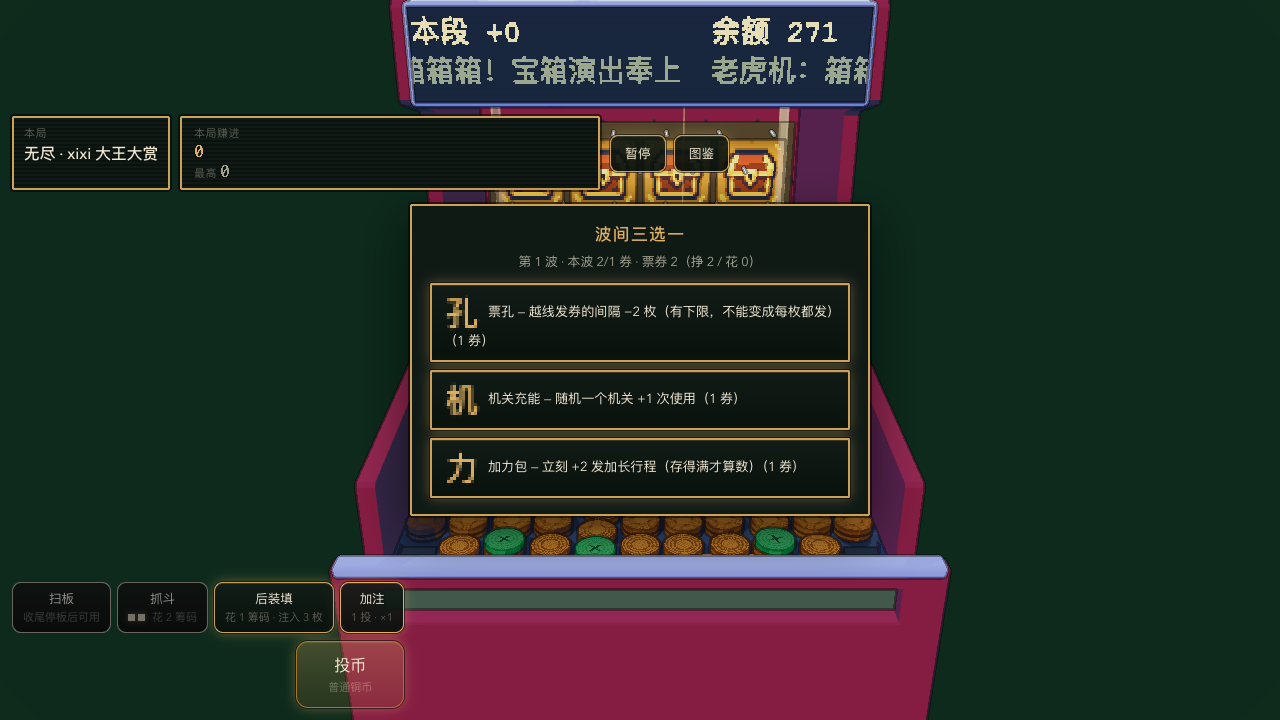
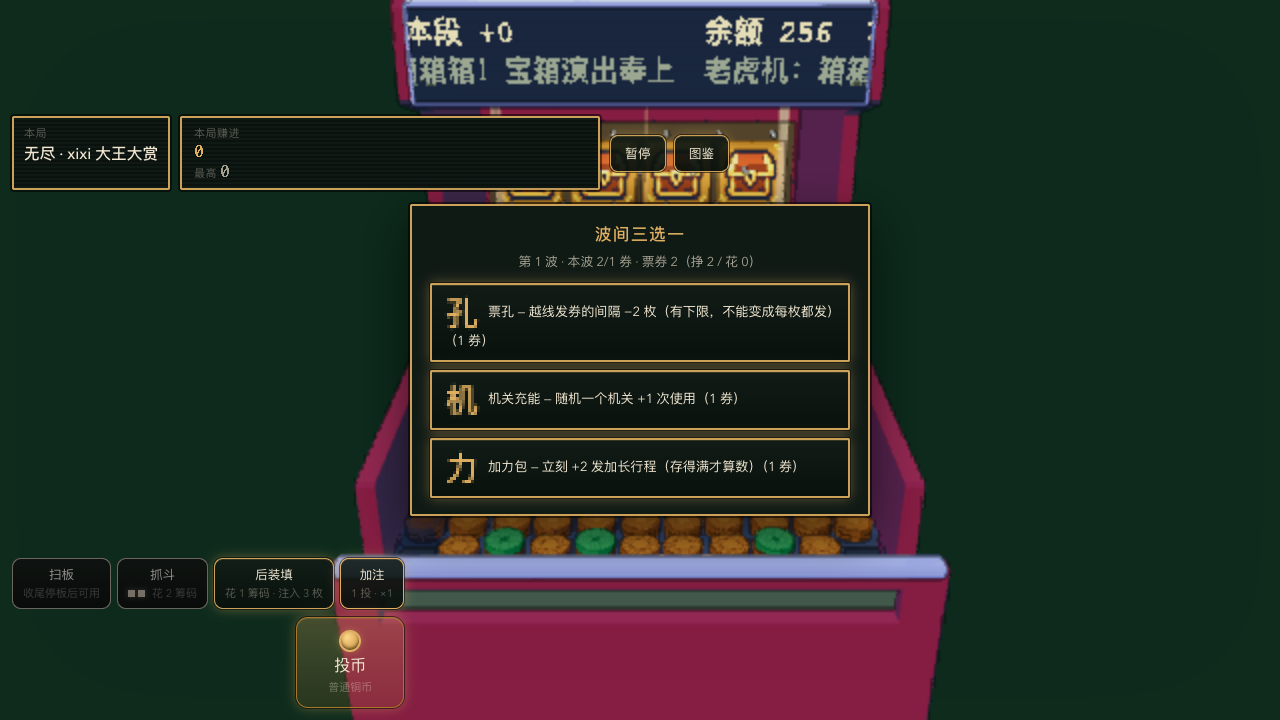
S7 收尾：按钮帽 + 调色板/无玻璃两条门，七条 G- 门逐条变异臂隔离
Stage 3b 的最后一格，顺带把"新判据必须红过一次"这条纪律在 UI 门上补齐。

界面：
- 投币键加一枚**圆形按钮帽**（纯 CSS：偏左上高光 + 下方内阴影 + 外圈双色边，跟机柜黄件同一受光方向）。
  没做成整颗圆：那格里还有"投币 / 普通铜币"两行字，整颗圆会把字挤成弧形，反而更不像机器。
- 13 张 README 截图在最终 CSS 之后重拍（含 390×844）。

判据（两条新门 + 一套臂）：
- G-调色板：计划原句是「HUD 区域颜色数 ≤ 机柜 LUT 槽数」，**实测先否掉它** ——
  只留 HUD 时 exact 6,618 / coarse 126 种，而 LUT 只有 4×4 = 16 槽；差两个数量级的来源是
  按钮面渐变与文字抗锯齿，那是刻意设计不是缺陷 ⇒ "≤ 16 槽"一装就是永久红，而永久红的门等于没有门。
  落地成「HUD 里声明出来的颜色 15 种、上限 24（1.6× 余量）」的回归栅栏：它抓"有人再加一族颜色/底色"，
  不假装能抓"是不是像素语言"。
- G-无玻璃：玻璃那一半搬给一条**直接可测**的门（可见节点里 computed backdropFilter 含 blur( 的数量 = 0）。
  与 G-调色板 互不包含：一个抓多一族颜色，一个抓多一层玻璃。
- UI_NEG_ARM=<臂>：七条 G- 门各配一条运行时变异臂（一个 <style> 或一个探针节点，不碰 src 也不碰存档）。
  10-07 实测逐条**只**红自己那条；color 臂 15 → 27 → 15 可复原。
- XIXI_FAST 的边界注释与打印跟上实际门数（段首现在是 1a 四条 + 1b/1c + S2 四条 + 这两条）。

验证：camera 23/23、xixi FAST 36/36、visual 28 passed / 2 skipped（那两条是 webkit 取回不确定性的既有定性结案）、
bot-playtest + save-migration 32 passed、tsc + vite build 干净。撤臂复跑两模式各 0 红。

Changed region(s): [[0.0, 0.7028, 0.75, 0.9167], [0.3125, 0.0, 0.6875, 0.275], [0.4375, 0.0, 0.4688, 0.0306]]

diff --git a/src/styles.css b/src/styles.css
@@ -878,6 +878,28 @@ body {
   background: linear-gradient(180deg, rgb(var(--brass-rgb) / 0.26), rgba(169, 118, 44, 0.16));
 }
 
+/* Stage 3b · 按钮硬件化：投币键上加一枚**圆形按钮帽**（纯 CSS 画的，不需要素材）。
+   读感是"一颗按下去会凹的机器键"，而不是又一块玻璃圆角条：
+   高光偏左上、内阴影压在下方、外圈双色边 —— 与机柜的黄铜件同一套受光方向。
+   ⚠ 没有把它做成整颗按钮的轮廓：那格还有"投币 / 普通铜币"两行文字，
+   整颗圆会把文字挤成弧形，反而更不像机器。`:active` 的 translateY(1px) 由通用规则给。 */
+#drop-button::before {
+  content: '';
+  width: 18px;
+  height: 18px;
+  border: 2px solid var(--edge-hi);
+  border-radius: 50%;
+  background: radial-gradient(
+    circle at 34% 30%,
+    var(--brass-hi),
+    rgb(var(--brass-rgb)) 52%,
+    var(--brass-deep)
+  );
+  box-shadow:
+    inset 0 -2px 3px rgba(0, 0, 0, 0.5),
+    0 0 8px var(--brass-glow);
+}
+
 #boost-button:not(:disabled) {
   border-color: var(--mint);
   box-shadow: 0 0 14px rgba(111, 211, 165, 0.28);

diff --git a/README.md b/README.md
@@ -243,12 +243,19 @@ shots/                 各状态截图（README 与视觉回归引用）
 node scripts/verify-game.mjs [模式]
 ```
 
-**`XIXI_FAST=1`（只给变异批用）**：`xixi` 模式在**罚款与票券那四条门**之后提前返回，
+**`XIXI_FAST=1`（只给变异批用）**：`xixi` 模式在**罚款 / 票券 / Stage 2 / 3b 那批门**（1a 四条 + 1b/1c +
+S2 四条 + `G-调色板` + `G-计数灯`）之后提前返回，
 跳过「落床 / 集齐 / 演出窗口 / 全程恒等式 / S5b / S5a」——那些段最坏要等 4 轮 × 200 循环 ≈ 27 分钟，
-而 1a/1b/1c/Stage 2 的门全在段首（实测：不开 ≈10~30 分钟，开 ≈1 分钟）。
+而上面这些门全在段首（实测：不开 ≈10~30 分钟，开 ≈1 分钟）。
 日志会打一行未覆盖面清单、合计条数随之变小 ⇒ **FAST 的结果不能当"xixi 整批通过"引用**。
 配套：`BASE_URL` 可以把整批判指到另一份代码副本上跑（变异轮就是在 `/tmp` 副本 + 5199 端口跑的，
 主树同时能继续干活）。
+
+**`UI_NEG_ARM=<臂>`（只给 G- 系列 UI 门用）**：在**运行时**往页面注入"这条门该抓的那个状态"
+（一个 `<style>` 或一个探针节点，不碰 `src`、不碰存档，关页面就没），用来证明每条门真的能红。
+七条臂与七条门一一对应，写死在 `verify-game.mjs` 的 `UI_NEG_ARMS` 里：
+`clearance`→G-遮挡、`readout`→G-单读数、`opacity`→G-disabled、`small`→G-字号、
+`glass`→G-无玻璃、`color`→G-调色板、`lights`→G-计数灯。跑法与隔离结果见下面的表。
 
 本轮新增的门（都在 `xixi` / `economy` / `camera` 三个模式里，判据名字里带编号）：
 
@@ -258,7 +265,8 @@ node scripts/verify-game.mjs [模式]
 | 1b 票券恒等 + 分源 + 汇 | `tickets === earned − spent`、分源数 = `floor(crossings / every)`、强化不跨局 | **M5** 少记汇 ⇒ 只红「1c 领卡」（恒等那条跑在任何花费之前，`spent` 恒 0 时它本来就抓不到这条错）；**M6** 少记分源 ⇒ 红「1b 票券恒等」 |
 | 1c 三选一面板 + 领卡 | 攒够目标才弹卡、按钮写着表上的价、**先付票再生效**、那张卡确实动了某个读数 | 同 M5（那条恒等门实际就挂在这条下面） |
 | Stage 2 协议 / 结算与归因 / 池水门 | `effect` 型币种返 0 且不吃倍率；扣款只进 `spent`/`fines`、逐事件对回表、`触发数 === 归因数`；两张表 Σwater = 0 | **M7** 触发但不留归因 ⇒ **只**红「S2 结算与归因」，票券两条不动 |
-| G-遮挡 / G-单读数 / G-disabled / G-字号 | HUD 不压招牌屏、余额一处读数、禁用按钮不减透明度、可见文本 ≥ 11px | G-遮挡 三臂（出厂 / 变量归零 / 还原）实测可分辨 |
+| G-遮挡 / G-单读数 / G-disabled / G-字号 / G-无玻璃（`camera`）+ G-调色板 / G-计数灯（`xixi`） | HUD 不压招牌屏、余额一处读数、禁用按钮不减透明度、可见文本 ≥ 11px、面板里没有玻璃模糊、HUD 声明色在预算内、机关剩余次数用灯且灯数 == 引擎 | 七条臂逐条隔离（`UI_NEG_ARM=…`，10-07 实测）：每条**只**红它自己那一条门；无臂 23/23 与 36/36 全绿、撤臂回到 0 红。`color` 臂的读数：15 → 27 → 15 |
+| ⚠ G-调色板 与计划里写的那条不是同一条 | 计划要的是「HUD 颜色数 ≤ 机柜 LUT 槽数」。实测先否掉它：只留 HUD 时 **exact 6,618 / coarse 126** 种，而 LUT 只有 4 条 × 4 档 = 16 槽 ⇒ 一装就是永久红（来源是按钮面渐变与文字抗锯齿，是设计不是缺陷）。**落地**的是「声明色 15 种、上限 24（1.6× 余量）」这条回归栅栏，玻璃那一半搬给 `G-无玻璃`（两条互不包含） | 「HUD 正文是不是像素字」**没有**硬判据 —— 那要先把 HUD 正文换成像素字（`src/render/pixelText.ts` 已有小件，缺的是这个决定本身），已上报待拍 |
 
 | 模式 | 内容 |
 | --- | --- |
